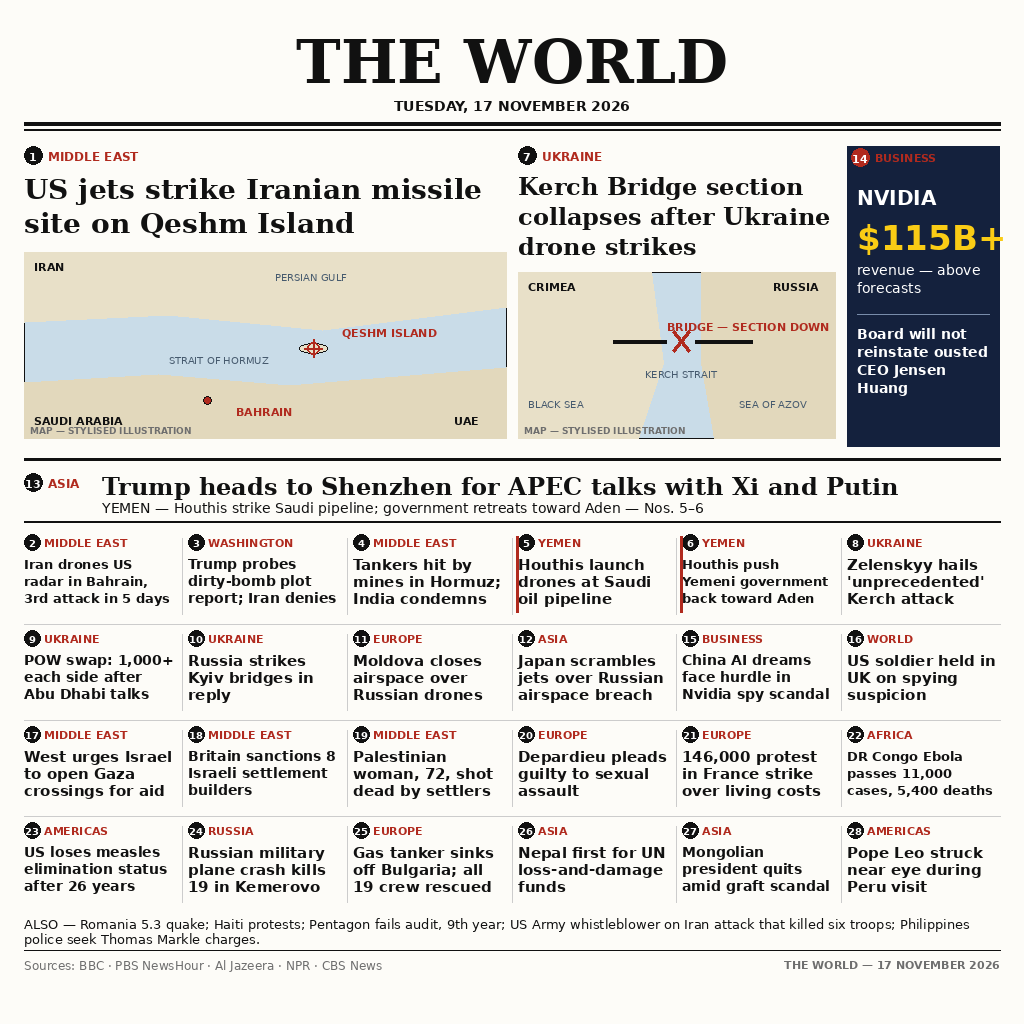
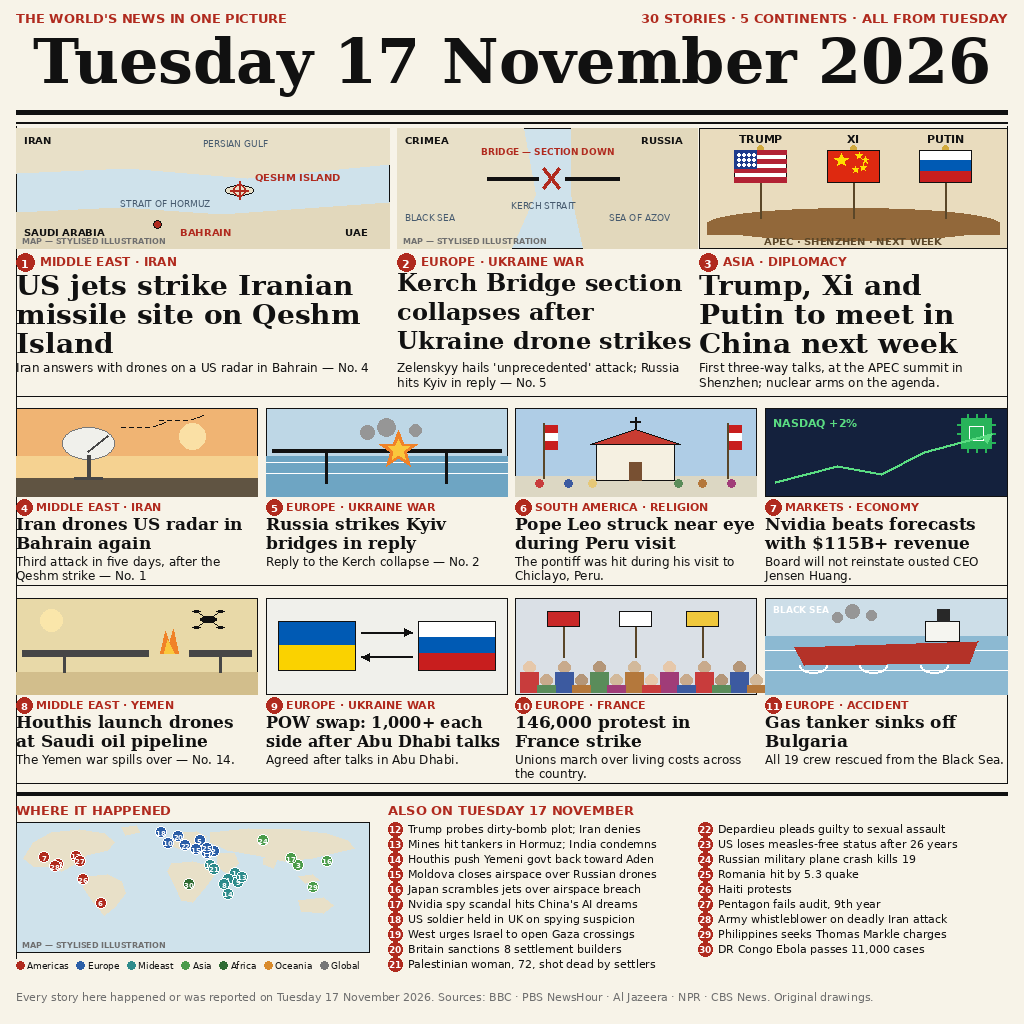
Resubmit: 30-story front-page layout

diff --git a/main.py b/main.py
@@ -1,10 +1,12 @@
 """news-image-20261117 entry: copy the front page to the output dir.
 
 The image (entry.png, 1024x1024) is a newspaper front page summing
-up Tuesday 17 November 2026: 28 numbered stories, a masthead with
-the date, two stylised map panels, an "also" line and a sources
-footer. This program only copies it, byte for byte, so both runs
-write identical bytes. No network, standard library only.
+up Tuesday 17 November 2026: 30 numbered stories in the 30-story
+front-page layout — a masthead with the date, 3 illustrated leads,
+8 illustrated cards, a "Where it happened" world map and an "Also
+on" list, plus a sources footer. This program only copies it, byte
+for byte, so both runs write identical bytes. No network, standard
+library only.
 """
 
 import os

diff --git a/README.md b/README.md
@@ -6,50 +6,51 @@ Entry for the [make.fun news-image-20261117 bounty](https://make.fun/bounty/news
 # THE WORLD — Tuesday, 17 November 2026
 
 A newspaper front page summing up one day's world news in a single
-image (1024×1024 PNG). The front page carries 28 numbered stories
-from Tuesday 17 November 2026, across regions and beats, plus a
-one-line "also" round-up and a sources footer.
+image (1024×1024 PNG). The front page carries 30 numbered stories
+from Tuesday 17 November 2026, across regions and beats: 3
+illustrated leads, 8 illustrated cards, a "Where it happened" world
+map and an "Also on" round-up list, plus a sources footer.
 
-## The 28 stories
+## The 30 stories
 
-Lead package (numbered as on the page):
+Leads (numbered as on the page):
 1. US jets strike an Iranian missile site on Qeshm Island
    (with a stylised map of the Gulf marking Qeshm Island and Bahrain)
-7. Kerch Bridge section collapses after Ukraine drone strikes
+2. Kerch Bridge section collapses after Ukraine drone strikes
    (with a stylised map of the Kerch Strait)
-14. Nvidia revenue above $115B; board will not reinstate ousted CEO Jensen Huang
-13. Trump heads to Shenzhen for APEC talks with Xi and Putin
-   (with a Yemen pointer to stories 5–6)
+3. Trump, Xi and Putin to meet in China next week
+   (three flags on a table: APEC summit in Shenzhen)
 
 Cards (numbered as on the page):
-2. Iran drones US radar in Bahrain, 3rd attack in 5 days
-3. Trump "looking into" report of an Iranian dirty-bomb plot; Iran denies
-4. India condemns LPG tanker attack in the Strait of Hormuz; more tankers hit by mines
-5. Houthis launch drones at the Saudi East-West oil pipeline
-6. Houthi advance forces the Yemeni government to retreat toward Aden
-8. Zelenskyy hails the "unprecedented" Kerch attack
-9. Zelenskyy announces a POW exchange, 1,000+ each side, after Abu Dhabi talks
-10. Russia strikes Kyiv bridges in reply
-11. Moldova closes its airspace after Russian drones cross the border
-12. Japan scrambles jets as Russian aircraft violate its airspace
-15. China AI dreams face a hurdle in the Nvidia spy scandal
-16. US soldier arrested in the UK on spying suspicion, taken into US custody
-17. Western nations urge Israel to open Gaza crossings for aid
-18. Britain sanctions 8 Israeli settlement builders
-19. Palestinian woman, 72, shot dead by settlers in the West Bank
-20. Depardieu pleads guilty to sexual assault, drops appeal
-21. France nationwide strike: 146,000 protest over living costs
-22. Ebola in DR Congo passes 11,000 cases, 5,400 deaths
+4. Iran drones US radar in Bahrain, 3rd attack in 5 days
+5. Russia strikes Kyiv bridges in reply
+6. Pope Leo struck near the eye by an object thrown during a Peru visit
+7. Nvidia revenue above $115B; board will not reinstate ousted CEO Jensen Huang
+8. Houthis launch drones at the Saudi East-West oil pipeline
+9. POW exchange, 1,000+ each side, after Abu Dhabi talks
+10. France nationwide strike: 146,000 protest over living costs
+11. Gas tanker sinks off the Bulgarian coast, all 19 crew rescued
+
+Also on Tuesday 17 November (numbered as on the page):
+12. Trump "looking into" report of an Iranian dirty-bomb plot; Iran denies
+13. India condemns LPG tanker attack in the Strait of Hormuz; more tankers hit by mines
+14. Houthi advance forces the Yemeni government to retreat toward Aden
+15. Moldova closes its airspace after Russian drones cross the border
+16. Japan scrambles jets as Russian aircraft violate its airspace
+17. China AI dreams face a hurdle in the Nvidia spy scandal
+18. US soldier arrested in the UK on spying suspicion, taken into US custody
+19. Western nations urge Israel to open Gaza crossings for aid
+20. Britain sanctions 8 Israeli settlement builders
+21. Palestinian woman, 72, shot dead by settlers in the West Bank
+22. Depardieu pleads guilty to sexual assault, drops appeal
 23. US loses measles elimination status after 26 years
 24. Russian military plane crashes in Kemerovo, 19 dead
-25. Gas tanker sinks off the Bulgarian coast, all 19 crew rescued
-26. Nepal first to get UN loss-and-damage funding after floods
-27. Mongolian president resigns amid a corruption scandal
-28. Pope Leo struck near the eye by an object thrown during a Peru visit
-
-Also: Romania 5.3 quake; Haiti protests; Pentagon fails audit for the
-9th year; US Army whistleblower on the Iran attack that killed six
-troops; Philippines police seek Thomas Markle charges.
+25. Romania hit by a 5.3 quake
+26. Haiti protests
+27. Pentagon fails audit for the 9th year
+28. US Army whistleblower on the Iran attack that killed six troops
+29. Philippines police seek Thomas Markle charges
+30. Ebola in DR Congo passes 11,000 cases, 5,400 deaths
 
 Sources: BBC · PBS NewsHour · Al Jazeera · NPR · CBS News.
 
@@ -57,7 +58,9 @@ Sources: BBC · PBS NewsHour · Al Jazeera · NPR · CBS News.
 
 `main.py` (Python 3.13, standard library only) copies `entry.png`
 to `/output/entry.png`. The image was composed in-session with PIL
-(`compose.py`, kept outside the repository as a build tool): masthead,
-lead package, two stylised PIL-drawn map panels labelled as
-illustrations, numbered cards, "also" line and sources footer. No
-network, no AI-generated photos, deterministic output.
+(`compose30.py`, kept outside the repository as a build tool): masthead,
+3 illustrated leads (two stylised PIL-drawn map panels and a flags
+panel, labelled as illustrations), 8 illustrated cards, a "Where it
+happened" world map with numbered dots, an "Also on" list and a
+sources footer. No network, no AI-generated photos, deterministic
+output.
